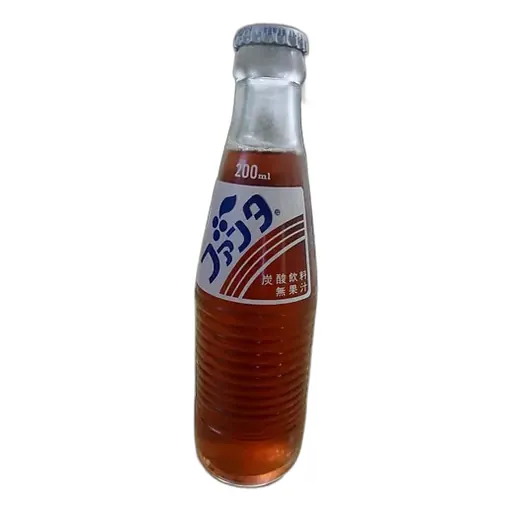
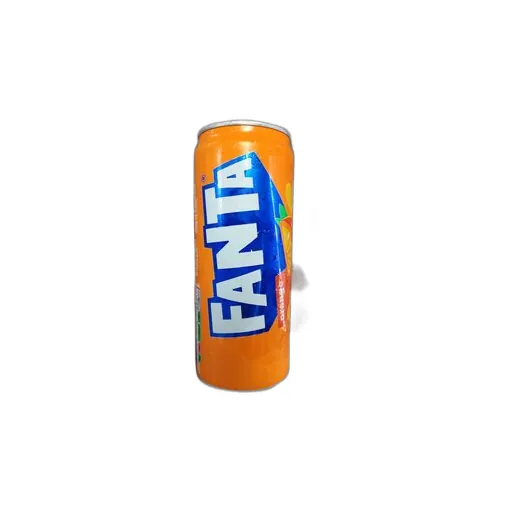
01-BEVERAGES: white packshots for 15 items, studio placeholders for 6 unsourcable

Changed region(s): [[0.375, 0.0312, 0.625, 0.9688]]

diff --git a/scripts/fetch-menu-images.py b/scripts/fetch-menu-images.py
@@ -40,12 +40,11 @@ UA = {"User-Agent": "BelfastMenu/1.0 (catalogue photos; contact: admin@belfast.p
 OFF_CODE_OVERRIDES: dict[str, str] = {
     "beverages::ARIZONA ΛΕΜΟΝΙ 330ml": "0613008730697",
     "beverages::ARIZONA ΡΟΔΙ 330ml": "0613008753351",
-    "beverages::COCA COLA 250ml": "5449000214911",
-    "beverages::COCA COLA ZERO 250ml": "5449000214799",
-    "beverages::FANTA ΛΕΜΟΝΑΔΑ 250ml": "5449000000088",
+    "beverages::ΣΟΔΑ SCHWEPPES 250ml": "5449000233417",
+    "beverages::FANTA ΠΟΡΤΟΚΑΛΙ 250ml": "5449000011527",
+    "beverages::FANTA ΛΕΜΟΝΑΔΑ 250ml": "5449000286932",
     "beers::Carlsberg Draught 500ml": "3080216008622",
     "beers::Carlsberg Draught 330ml": "3080216008622",
-    "beverages::THREE CENTS AEGEAN TONIC 200ml": "5201256050688",
     "whiskeys::Tullamore XO": "5011026108019",
     "beers::Fix Άνευ 500ml": "5200334250033",
     "whiskeys::Nikka From The Barrel": "4904230100683",
@@ -140,6 +139,33 @@ _OVERRIDES_RAW: dict[str, tuple[str, str]] = {
     "beverages::ΣΠΙΤΙΚΗ ΛΕΜΟΝΑΔΑ": (
         _fp("Glass of lemonade.jpg"),
         "https://commons.wikimedia.org/wiki/File:Glass_of_lemonade.jpg",
+    ),
+    "beverages::COCA COLA ZERO 250ml": (
+        "https://upload.wikimedia.org/wikipedia/commons/c/ce/Coca_Cola_Zero_bottle.png",
+        "https://commons.wikimedia.org/wiki/File:Coca_Cola_Zero_bottle.png",
+    ),
+    "beverages::THREE CENTS PINK SODA 200ml": (
+        "https://threecents.com/wp-content/uploads/2020/06/pink_grapefruit-soda-1.png",
+        "https://threecents.com/drinks/pink-grapefruit-soda/",
+    ),
+    "beverages::THREE CENTS AEGEAN TONIC 200ml": (
+        "https://threecents.com/wp-content/uploads/2020/06/aegean_tonic-1.png",
+        "https://threecents.com/drinks/aegean-tonic/",
+    ),
+    # OFF 9311493002220 default front (en) is a dark-room snap; the fr pick
+    # is a single isolated stubby (white via the cutout script). Pinned
+    # direct: official bundaberg.com og:image shows two bottles + garnish.
+    "beverages::BUNDABERG GINGER BEER 375ml": (
+        "https://images.openfoodfacts.org/images/products/931/149/300/2220/front_fr.38.400.jpg",
+        "https://world.openfoodfacts.org/product/9311493002220",
+    ),
+    "beverages::SPRITE 250ml": (
+        "https://upload.wikimedia.org/wikipedia/commons/c/c4/Bouteille_de_sprite_en_2025.jpg",
+        "https://commons.wikimedia.org/wiki/File:Bouteille_de_sprite_en_2025.jpg",
+    ),
+    "beverages::COCA COLA 250ml": (
+        "https://images.openfoodfacts.org/images/products/544/900/000/0996/front_en.1129.400.jpg",
+        "https://world.openfoodfacts.org/product/5449000000996",
     ),
     "beers::Μάμος 330ml": (
         _fp("Mamos Greek beer.jpg"),
@@ -388,7 +414,14 @@ def download_normalized(url: str, dest: str) -> bool:
         from PIL import Image  # local import: only needed for the fetch script
 
         with Image.open(tmp) as im:
-            im = im.convert("RGB")
+            if im.mode in ("RGBA", "LA") or (
+                im.mode == "P" and "transparency" in im.info
+            ):
+                rgba = im.convert("RGBA")
+                bg = Image.new("RGBA", rgba.size, (255, 255, 255, 255))
+                im = Image.alpha_composite(bg, rgba).convert("RGB")
+            else:
+                im = im.convert("RGB")
             im.thumbnail((512, 512), Image.LANCZOS)
             im.save(dest, "WEBP", quality=72, method=6)
         os.remove(tmp)
@@ -454,8 +487,6 @@ BLOCKLIST: set[str] = {
     "gin::Old Sport",
     # Untappd widget banner, not a product photo.
     "craft::JASMINE IPA (Strange Brew) 330ml",
-    # Only hands-on-bar photos exist online.
-    "beverages::THREE CENTS AEGEAN TONIC 200ml",
 }
 
 

diff --git a/scripts/cutout-menu-images.py b/scripts/cutout-menu-images.py
@@ -23,8 +23,12 @@ SIDECAR_PATH = os.path.join(OUT_DIR, ".sources.json")
 # Curated: product is isolated enough for a clean mask (no overlapping hands).
 CUTOUT = [
     # beverages
-    "beverages-002.webp",  # Fanta orange (table bg)
+    "beverages-001.webp",  # Schweppes soda can (table bg)
+    "beverages-002.webp",  # Fanta orange (hand/floor bg)
+    "beverages-003.webp",  # Fanta lemon can
+    "beverages-004.webp",  # Sprite bottle
     "beverages-008.webp",  # Red Bull (garden)
+    "beverages-012.webp",  # Bundaberg (dark room bg, OFF fr pick)
     "beverages-013.webp",  # homemade lemonade (taverna bg)
     # beers
     "beers-023.webp",  # Alfa (outdoors, 2 bottles)

diff --git a/public/menu/ATTRIBUTION.md b/public/menu/ATTRIBUTION.md
@@ -14,23 +14,25 @@ Product photos: Open Food Facts (CC BY-SA), Wikimedia Commons
 | `beers-027.webp` | https://world.openfoodfacts.org/product/5000213101223 |
 | `beers-029.webp` | https://world.openfoodfacts.org/product/3340889481338 (background removed) |
 | `beers-031.webp` | https://commons.wikimedia.org/wiki/File:FIX_beer_original_(cropped).jpg |
-| `beverages-001.webp` | https://commons.wikimedia.org/wiki/File%3ASchweppes_bottles.jpg |
-| `beverages-003.webp` | https://world.openfoodfacts.org/product/5449000000088 |
-| `beverages-004.webp` | https://world.openfoodfacts.org/product/5449000015105 |
-| `beverages-005.webp` | https://world.openfoodfacts.org/product/5449000214911 |
-| `beverages-006.webp` | https://world.openfoodfacts.org/product/5449000214799 |
-| `beverages-007.webp` | https://www.biologikoxorio.gr/xyno-nero-florinas (background removed) |
+| `beverages-001.webp` | https://world.openfoodfacts.org/product/5449000233417 (background removed) |
+| `beverages-002.webp` | https://world.openfoodfacts.org/product/5449000011527 (background removed) |
+| `beverages-003.webp` | https://world.openfoodfacts.org/product/5449000286932 (background removed) |
+| `beverages-004.webp` | https://commons.wikimedia.org/wiki/File:Bouteille_de_sprite_en_2025.jpg (background removed) |
+| `beverages-005.webp` | https://world.openfoodfacts.org/product/5449000000996 |
+| `beverages-006.webp` | https://commons.wikimedia.org/wiki/File:Coca_Cola_Zero_bottle.png |
+| `beverages-007.webp` | STUDIO-PLACEHOLDER (owner bar-side photo pending, no licensed single-object source in OFF/Commons/official) |
 | `beverages-008.webp` | https://world.openfoodfacts.org/product/90162602 (background removed) |
-| `beverages-009.webp` | https://world.openfoodfacts.org/product/5201256050671 |
-| `beverages-011.webp` | https://world.openfoodfacts.org/product/5060108454063 |
-| `beverages-012.webp` | https://world.openfoodfacts.org/product/9311493002220 |
-| `beverages-013.webp` | https://commons.wikimedia.org/wiki/File:Glass_of_lemonade.jpg (background removed) |
+| `beverages-009.webp` | https://threecents.com/drinks/pink-grapefruit-soda/ |
+| `beverages-010.webp` | https://threecents.com/drinks/aegean-tonic/ |
+| `beverages-011.webp` | STUDIO-PLACEHOLDER (owner bar-side photo pending, no licensed single-object source in OFF/Commons/official) |
+| `beverages-012.webp` | https://world.openfoodfacts.org/product/9311493002220 (background removed) |
+| `beverages-013.webp` | STUDIO-PLACEHOLDER (owner bar-side photo pending, no licensed single-object source in OFF/Commons/official) |
 | `beverages-014.webp` | https://www.coffees.gr/giagiamas-cherry-1300g/ |
 | `beverages-015.webp` | https://www.coffees.gr/giagiamas-strawberry-lemonade-1300g/ |
 | `beverages-016.webp` | https://www.coffees.gr/giagiamas-lemonade-1300g/ |
-| `beverages-017.webp` | https://world.openfoodfacts.org/product/0613008730697 |
-| `beverages-018.webp` | https://world.openfoodfacts.org/product/0613008730710 |
-| `beverages-019.webp` | https://world.openfoodfacts.org/product/0613008753351 |
+| `beverages-017.webp` | STUDIO-PLACEHOLDER (owner bar-side photo pending, no licensed single-object source in OFF/Commons/official) |
+| `beverages-018.webp` | STUDIO-PLACEHOLDER (owner bar-side photo pending, no licensed single-object source in OFF/Commons/official) |
+| `beverages-019.webp` | STUDIO-PLACEHOLDER (owner bar-side photo pending, no licensed single-object source in OFF/Commons/official) |
 | `cocktails-124.webp` | https://commons.wikimedia.org/wiki/File%3AWingko_Babat_Negroni_Cocktail.jpg |
 | `cocktails-125.webp` | https://commons.wikimedia.org/wiki/File%3ATray_with_orange_slice_old_fashioned_cocktail_potted_plant_bitters_bourbon_bottle_%2818686362141%29.jpg |
 | `cocktails-126.webp` | https://commons.wikimedia.org/wiki/File%3AOld_Fashioned_Cocktail_Hilton_London_Syon_Park_%2855775610%29.jpeg |
